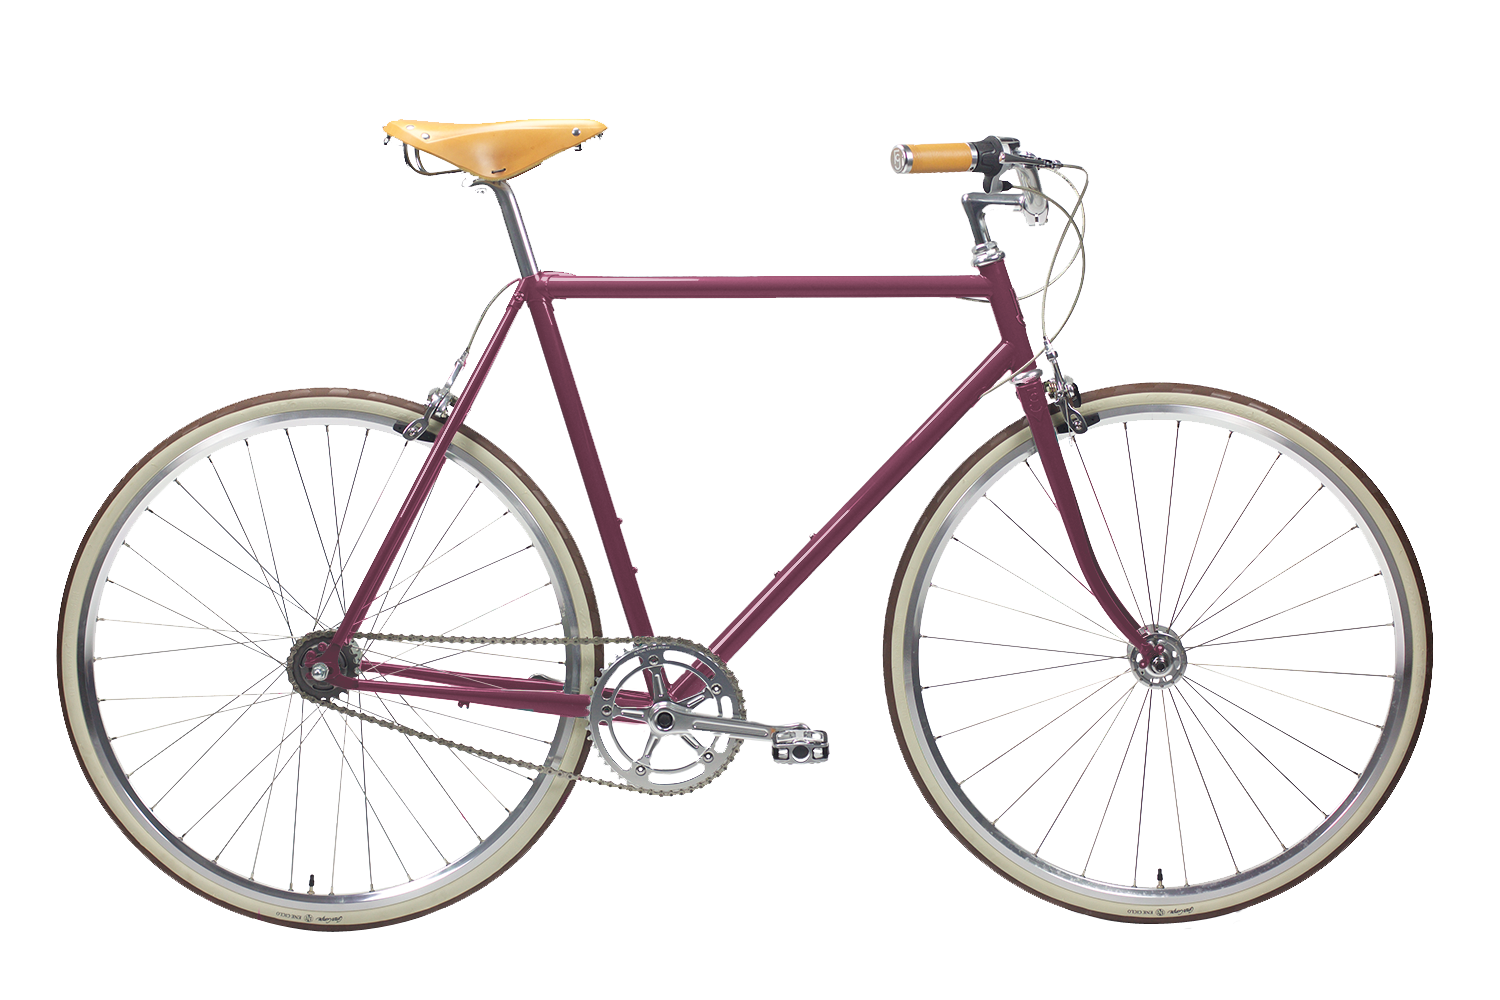
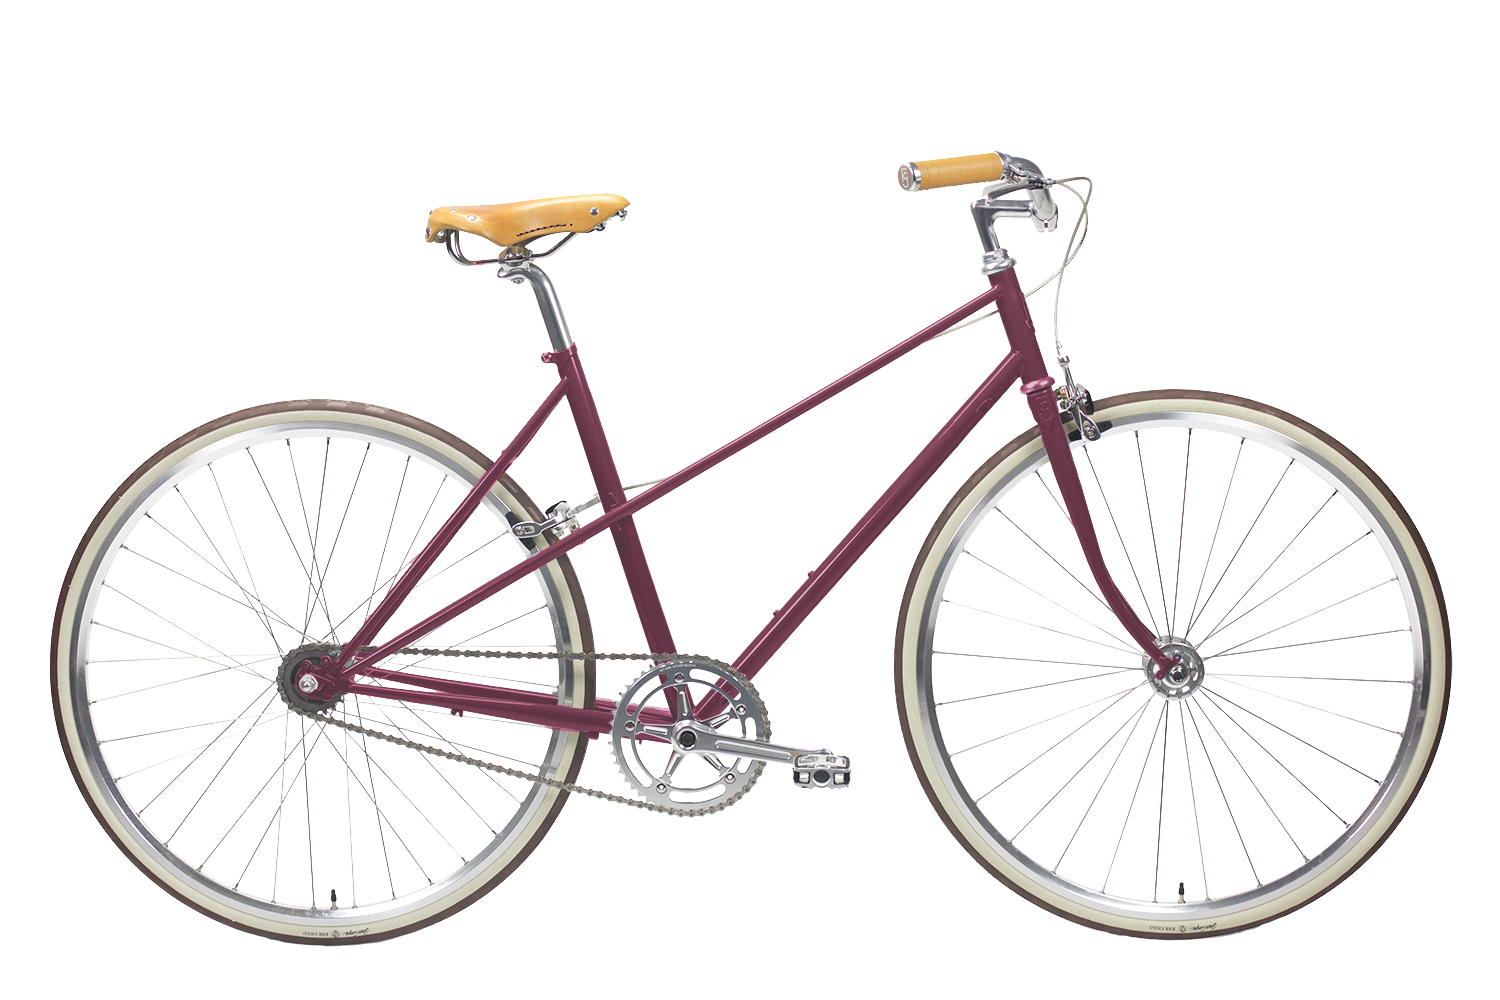
asdf

Changed region(s): [[0.0307, 0.093, 0.9813, 0.961], [0.1227, 0.713, 0.1533, 0.744]]

diff --git a/src/pages/shop/shop.html b/src/pages/shop/shop.html
@@ -28,14 +28,14 @@
       <h2><i>Viva</i></h2>
       <p>Dieses Velo ist ein Fixie. Das heisst es hat nur einen einzigen Gang. Easy as it is. Vor allem geieignet um in ebenen Gegenden zu fahren, aber mach dir keine Sorgen, damit kommst du jede Unterführung wieder hoch!</p>
       <div class='colorPicker'>
-        <div class='colorChoice beige active colorClick2'></div>
+        <div class='colorChoice beige colorClick2'></div>
         <div class='colorChoice blue colorClick2'></div>
-        <div class='colorChoice red colorClick2'></div>
+        <div class='colorChoice red active colorClick2'></div>
       </div>
       <h3>499.- CHF</h3>
     </div>
     <div class='productPictureContainer'>
-      <img class='productPicture' src='../../../src/images/velo3.png' />
+      <img class='productPicture' src='../../../src/images/velo_rot2.png' />
       <svg id="Layer_1" class="sechsegg" data-name="Layer 1" xmlns="http://www.w3.org/2000/svg" viewBox="0 0 480.59 459.06"><path d="M252.23,35.71A188.5,188.5,0,0,1,385.52,357.5,188.5,188.5,0,0,1,118.94,90.92,187.27,187.27,0,0,1,252.23,35.71m0-20c-115.15,0-208.5,93.35-208.5,208.5s93.35,208.5,208.5,208.5,208.5-93.35,208.5-208.5-93.35-208.5-208.5-208.5Z"/><path d="M252.23,78.06a146.15,146.15,0,1,1-103.34,42.8,145.19,145.19,0,0,1,103.34-42.8m0-20A166.15,166.15,0,1,0,418.38,224.21,166.15,166.15,0,0,0,252.23,58.06Z"/></svg>
     </div>
   </div>

diff --git a/src/index.html b/src/index.html
@@ -9,6 +9,7 @@
   <meta name="author" content="Jonas Humbel">
   <meta name="viewport" content="width=device-width, initial-scale=1.0">
   <title>qwertz</title>
+  <link rel="icon" type="image/x-icon" href="images/favicon.ico">
   <!-- build:css -->
 
   <!-- <link href="../node_modules/bootstrap/dist/css/bootstrap.css" rel="stylesheet"> -->
@@ -70,6 +71,7 @@
     <div id='topBtn'>
       <h5>Top</h5>
     </div>
+    <div class='divider'></div>
     <div class='footerInfo'>
       <div class='details'>
         <div class='adress'>

diff --git a/src/css/styles.css b/src/css/styles.css
@@ -23,6 +23,14 @@ body {
   color: #1A1D2A;
 }
 
+b {
+  color:#EDDDB1;
+}
+
+.divider {
+  width:20px;
+}
+
 .container {
   padding-top: 30px;
 }
@@ -236,7 +244,7 @@ h1 {
 
 .sechsegg {
   width: 90%;
-    fill: rgba(26, 29, 42, 0.60);
+    fill: #EDDDB1;
     opacity: 0.5;
     position: absolute;
     display: inline;
